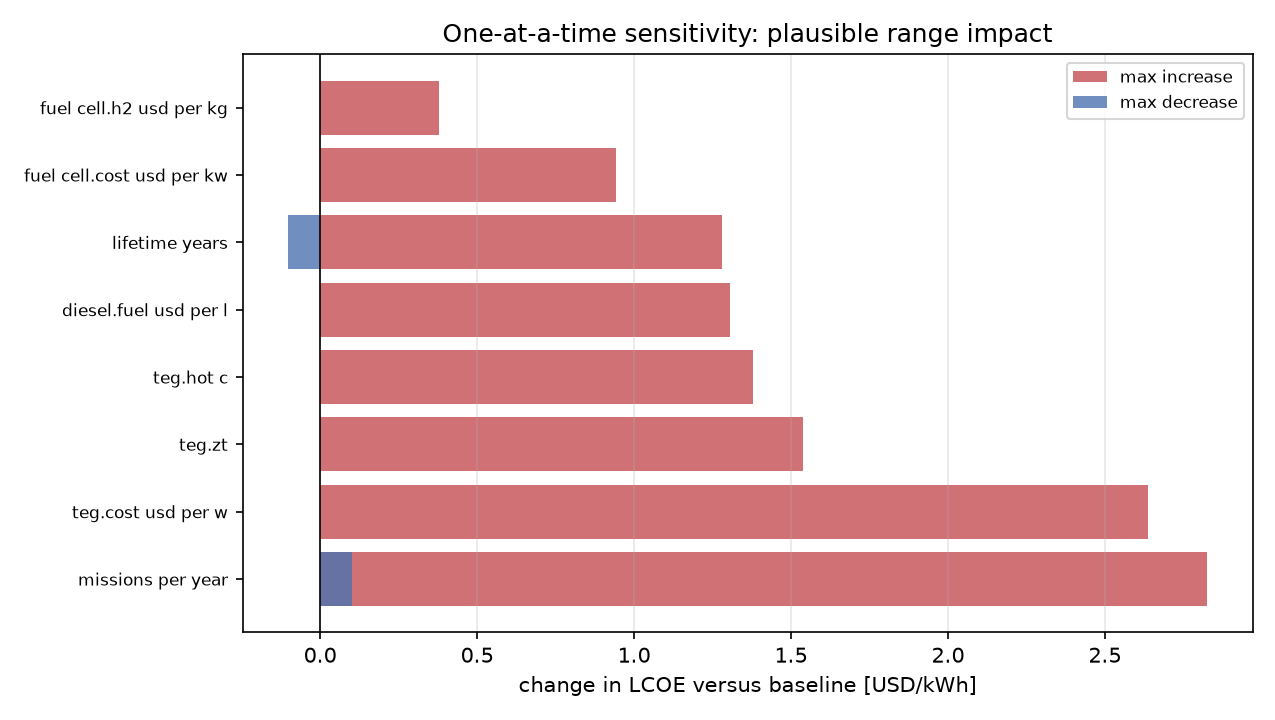
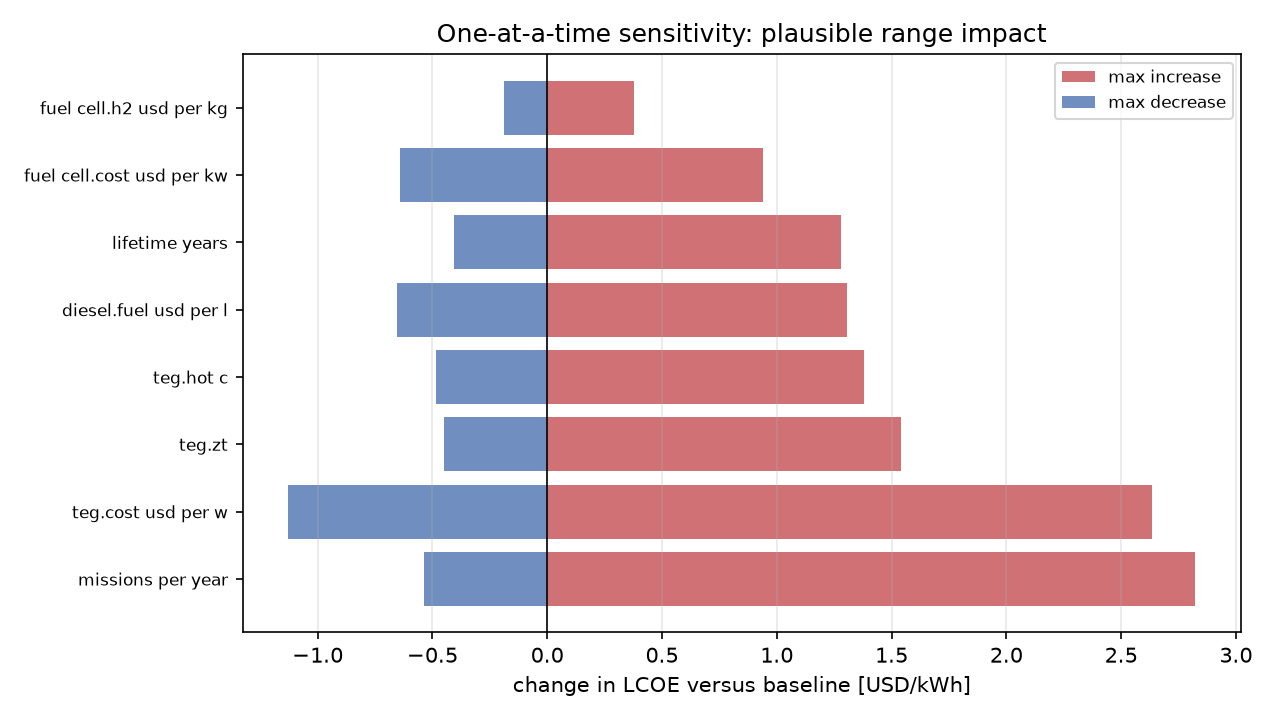
Sensitivity: plot the true signed span across candidates and bounds

diff --git a/src/project_e/simulation/sensitivity.py b/src/project_e/simulation/sensitivity.py
@@ -98,17 +98,21 @@ def _oat(raw: dict, base_lcoe: dict[str, float], base_mass: dict[str, float]):
             for r in res:
                 deltas.setdefault(r.key, []).append(lcoe[r.key] - base_lcoe[r.key])
                 mass_deltas.setdefault(r.key, []).append(r.mass_kg - base_mass[r.key])
-        # Keep the signed delta with the largest magnitude: the decrease bar in
-        # the plot must be negative, not abs().
+        # Keep the signed delta with the largest magnitude per architecture, and
+        # the true signed span across architecture and bound for the plot.
         d_max = {k: max(vals, key=abs) for k, vals in deltas.items()}
         m_max = {k: max(vals, key=abs) for k, vals in mass_deltas.items()}
+        span_low = min((min(v) for v in deltas.values()), default=float("inf"))
+        span_high = max((max(v) for v in deltas.values()), default=float("-inf"))
         rows.append(
             {
                 "parameter": path,
                 "low": lo,
                 "high": hi,
-                "max_dlcoe": max(abs(v) for v in d_max.values()) if d_max else float("inf"),
+                "max_dlcoe": max(abs(span_low), abs(span_high)),
                 "max_dmass": max(abs(v) for v in m_max.values()) if m_max else float("inf"),
+                "span_low": span_low,
+                "span_high": span_high,
                 "dlcoe": d_max,
                 "dmass": m_max,
                 "ranking_flip": bool(best_at_bounds and any(b != best_base for b in best_at_bounds)),
@@ -190,8 +194,8 @@ def _plots(oat_rows, lcoes, out_dir: pathlib.Path, target: float) -> list[str]:
         fig, ax = plt.subplots(figsize=(8.5, 4.8))
         labels = [r["parameter"].replace("assumptions.", "").replace("_", " ") for r in top]
         y = np.arange(len(top))
-        spans_low = [min(r["dlcoe"].values()) for r in top]
-        spans_high = [max(r["dlcoe"].values()) for r in top]
+        spans_low = [r["span_low"] for r in top]
+        spans_high = [r["span_high"] for r in top]
         ax.barh(y, spans_high, color="#c44e52", alpha=0.8, label="max increase")
         ax.barh(y, spans_low, color="#4c72b0", alpha=0.8, label="max decrease")
         ax.set_yticks(y)
